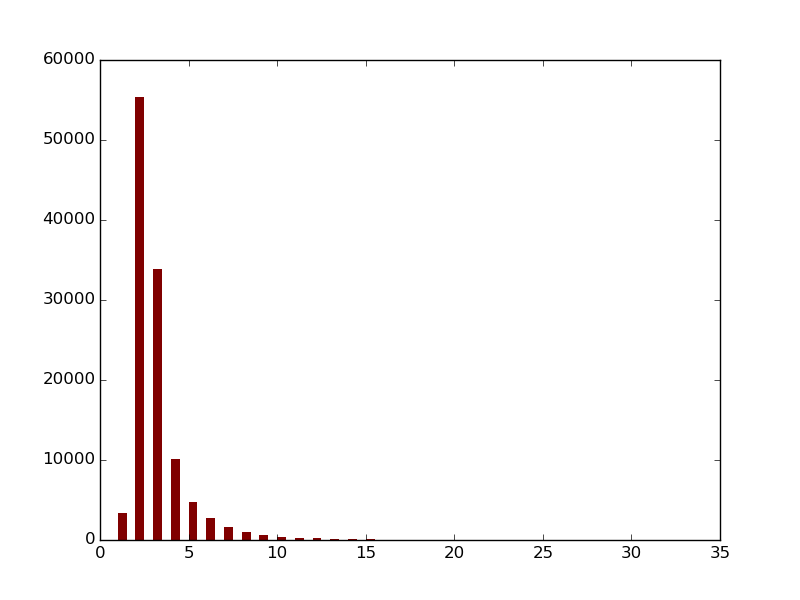
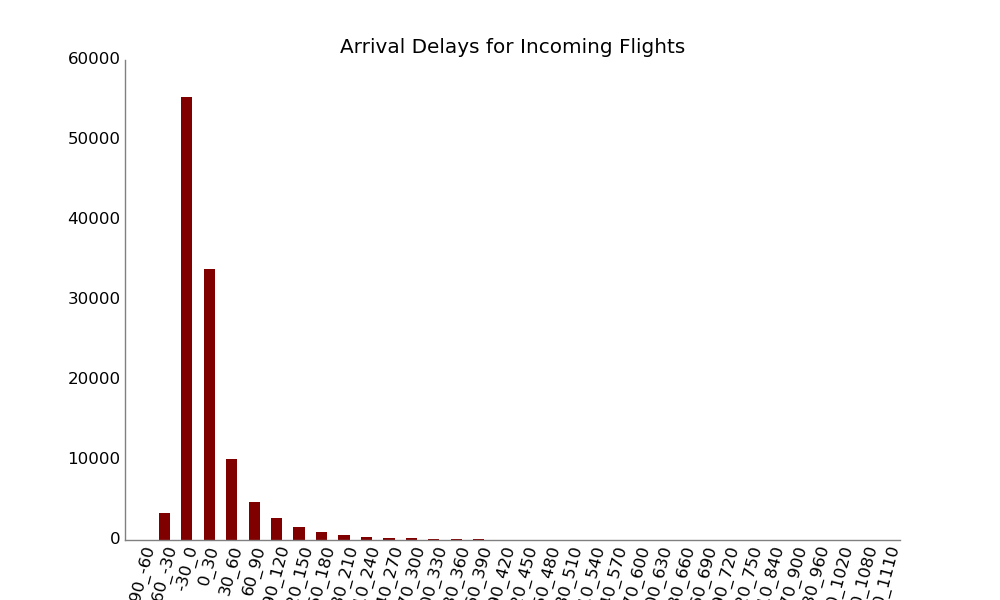
plot

diff --git a/PythonScripts/delay_bins_incoming/histogram.py b/PythonScripts/delay_bins_incoming/histogram.py
@@ -52,14 +52,12 @@ def main():
 
     x = np.arange( len(y) )
 
-    plt.bar(x, y, width=.5, color='maroon', edgecolor='none')
-    plt.savefig("../../plots/histogram_incoming_delays.png")
-"""
+
     fig, ax = plt.subplots()
 
     fig.set_size_inches(10,6)
 
-    plt.title('Top 20 Airports by Number of Incoming Flights')
+    plt.title('Arrival Delays for Incoming Flights')
     
     plt.xticks( x + .25, x_labels, rotation=75)
     plt.xlim([min(x) - .5, max(x) + 1])
@@ -76,7 +74,7 @@ def main():
 
     plt.bar(x, y, width=.5, color='maroon', edgecolor='none')
     plt.savefig("../../plots/histogram_incoming_delays.png")
-"""
+
 
 if __name__ == '__main__':
     main()
